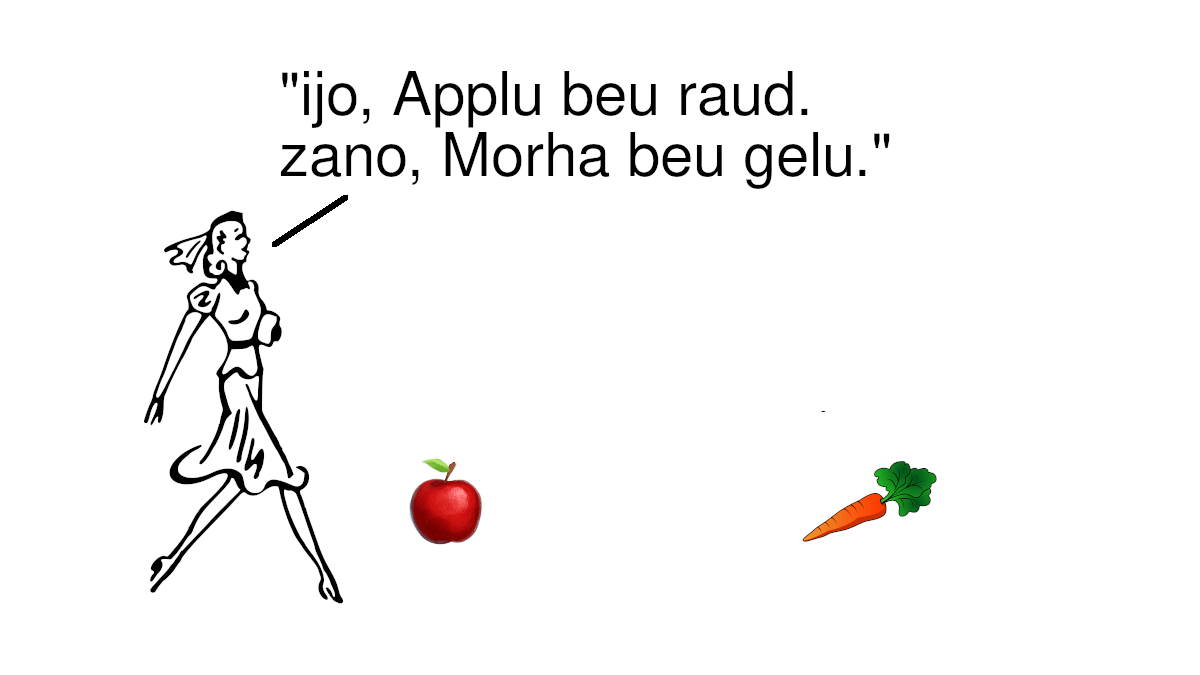
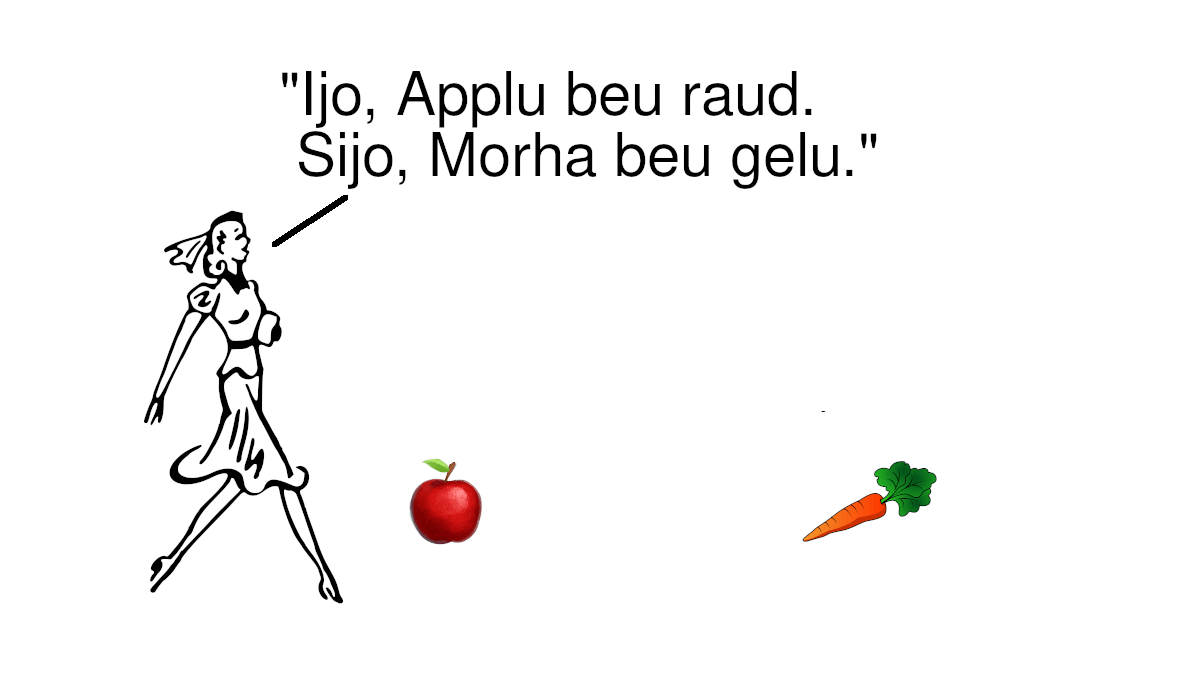
Sijo/Sit/Siv

Changed region(s): [[0.2158, 0.0933, 0.74, 0.28]]

diff --git a/dictionary.html b/dictionary.html
@@ -87,7 +87,7 @@
         <li id="grauti">grauti: (n) size; (v1) the size of.</li>
         <li id="groni">groni: (adj) green.</li>
         <li id="gumo">gumo: (n) husband, boyfriend.</li>
-        <li id="habe">habe: (v2) have, esp. inalienably; (v2) love familially, or as in a friendship.</li>
+        <li id="habe">habe: (v2) have, esp. inalienably; (v2) love familially, or as in a friendship; (v2) know, as in a person.</li>
         <li id="hait">hait: (adj) hot, warm.</li>
         <li id="halbauwju">halbauwju: (n) peninsula, cape.</li>
         <li id="hald">hald: (v2) hold, have, esp. alienably.</li>
@@ -106,7 +106,7 @@
         <li id="hus">hus: (n) house, home.</li>
         <li id="huzo">huzo: (n) ovary, testicle.</li>
         <li id="hwat">hwat: (v2) that, the [n] that [v]; (v2) that, [v2] such that.</li>
-        <li id="hwav">hwav: (n) what, who.</li>
+        <li id="hwav">hwav: (n) who, what.</li>
         <li id="hwit">hwit: (adj) white.</li>
         <li id="-i">-i: (adj &gt; v2) make to be or feel [adj].</li>
         <li id="ijo">ijo: (n) she, it, etc., something close to the speaker.</li>
@@ -129,6 +129,7 @@
         <li id="kistu">kistu: (n) box, chest.</li>
         <li id="kivun">kivun: (n) direction, compass heading.</li>
         <li id="klib">klib: (n) cliff.</li>
+        <li id="kna">kna: (v2) know [something as a fact].</li>
         <li id="knabo">knabo: (n) young boy.</li>
         <li id="kundi">kundi: (n) relative, member of a family.</li>
         <li id="kuni">kuni: (v2) be, be one of.</li>
@@ -190,7 +191,10 @@
         <li id="sehw">sehw: (v2) see.</li>
         <li id="seuk">seuk: (adj) sick, ill.</li>
         <li id="sibbju">sibbju: (n) sibling.</li>
+        <li id="sijo">sijo: (n) she, it, etc., something or someone far from the speaker and the listener.</li>
+        <li id="sit">sit: (n) they, a group of a few people or things far from the speaker and the listener.</li>
         <li id="siun">siun: (n) person, human being.</li>
+        <li id="siv">siv: (n) they, a group of many people or things far from the speaker and the listener.</li>
         <li id="skamu">skamu: (adj) shy, embarrassed.</li>
         <li id="skin">skin: (n) emotion; (v1) the feeling of.</li>
         <li id="skuldi">skuldi: (n) lie; (adj) wrong, incorrect, false.</li>
@@ -229,9 +233,6 @@
         <li id="wostini">wostini: (n) desert.</li>
         <li id="wraiz">wraiz: (adj) angry, mad.</li>
         <li id="wundar">wundar: (adj) amazed.</li>
-        <li id="zai">zai: (n) they, a group of many things far from the speaker and the listener.</li>
-        <li id="zano">zano: (n) she, it, etc., something far from the speaker and the listener.</li>
-        <li id="zat">zat: (n) they, a group of a few things far from the speaker and the listener.</li>
         <li id="zarm">zarm: (n) intestine.</li>
         <li id="zrubo">zrubo: (adj) bunch of.</li>
         <li id="zu">zu: (n) you.</li>
@@ -249,7 +250,7 @@
 +----------+------+-----+-----+
 |  DEM.MED | hijo | hit | hiv |
 +----------+------+-----+-----+
-| DEM.DIST | zano | zat | zai |
+| DEM.DIST | sijo | sit | siv |
 +----------+------+-----+-----+
 
 +-------------+--------+--------+----------+-------+

diff --git a/index.html b/index.html
@@ -309,30 +309,35 @@
     </div>
     <div>
       <span>Wer andi Wib sage to sa.</span>
-      <img src="image/May8.png" alt="ijo kuni winabavi hijo applu zano morha">
+      <img src="image/May8.png" alt="ijo kuni winabavi hijo applu sijo morha">
     </div>
     <div>
-      <img src="image/May30.png" alt="ijo applu beu raud zano morha gelu">
+      <img src="image/May30.png" alt="ijo applu beu raud sijo morha gelu">
     </div>
     <div>
         <span>ijo andi "ain efza fau" ijo kuni it.</span>
         <span>ijo andi manag ijo kuni iv.</span><br>
         <span>hijo andi "ain efza fau" hijo kuni hit.</span>
         <span>hijo andi manag hijo kuni hiv.</span><br>
-        <span>zo andi "ain efza fau" "zo efza ijo efza hijo" kuni zat.</span>
-        <span>zat andi manag "zo efza ijo efza hijo" kuni zai.</span>
+        <span>sijo andi "ain efza fau" "sijo efza ijo efza hijo" kuni sit.</span>
+        <span>sit andi manag "sijo efza ijo efza hijo" kuni siv.</span>
     </div>
     <div>
       <span>% kunne sage to # "ik isti %.</span>
       <span>zu isti #."</span><br>
-      <span>ik andi "ain efza fau" "zu efza ijo efza hijo efza zo" kuni wit.</span>
-      <span>ik andi manag "zu efza ijo efza hijo efza zo" kuni wiv.</span><br>
-      <span>zu andi "ain efza fau" "zu efza ijo efza hijo efza zo" kuni jit.</span>
-      <span>zu andi manag "zu efza ijo efza hijo efza zo" kuni jiv.</span>
+      <span>ik andi "ain efza fau" "zu efza ijo efza hijo efza sijo" kuni wit.</span>
+      <span>ik andi manag "zu efza ijo efza hijo efza sijo" kuni wiv.</span><br>
+      <span>zu andi "ain efza fau" "zu efza ijo efza hijo efza sijo" kuni jit.</span>
+      <span>zu andi manag "zu efza ijo efza hijo efza sijo" kuni jiv.</span>
     </div>
     <div>
+      <span>Wer kunne sehw Haso.</span>
+      <span>Wer kna hwat Haso hald Winabavi.</span><br>
       <span>Wib ne kunne sehw Haso.</span>
-      <span>Wer kunne sehw Haso.</span><br>
+      <span>Wib ne kna Sijo hwat Haso hald.</span>
+      <img src="image/Aug31.png">
+    </div>
+    <div>
       <span>Wib andi Wer kunne hauvi sa.</span>
       <img src="image/Apr5.png" alt="haso hald morha ne">
     </div>
